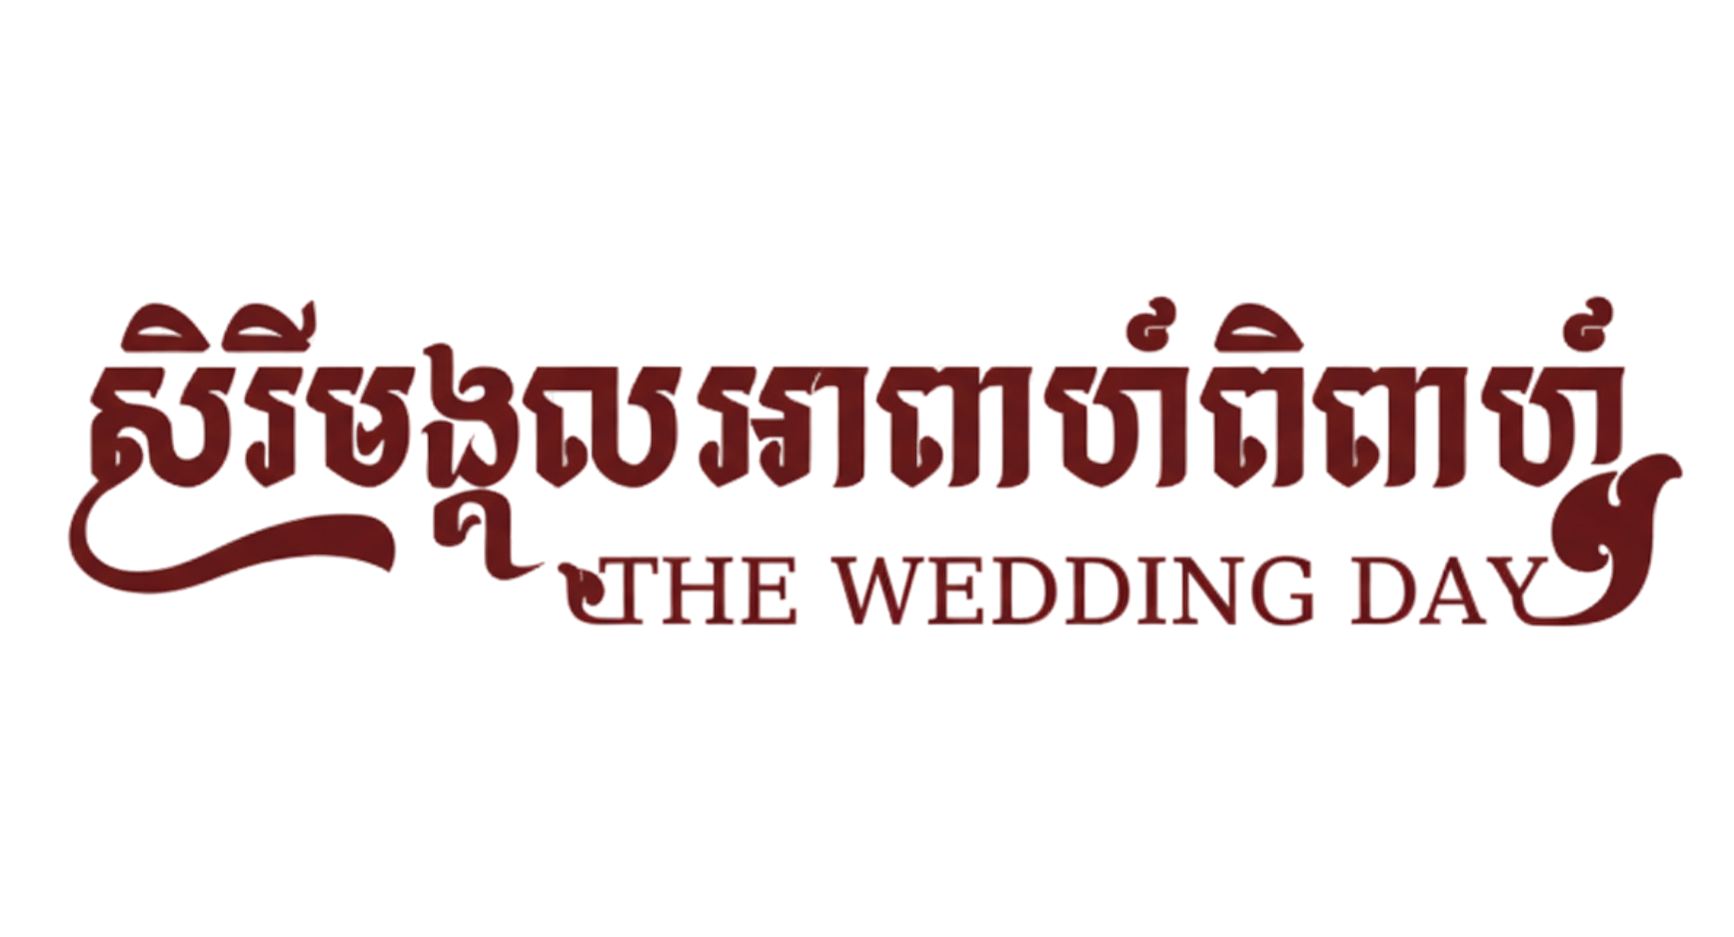
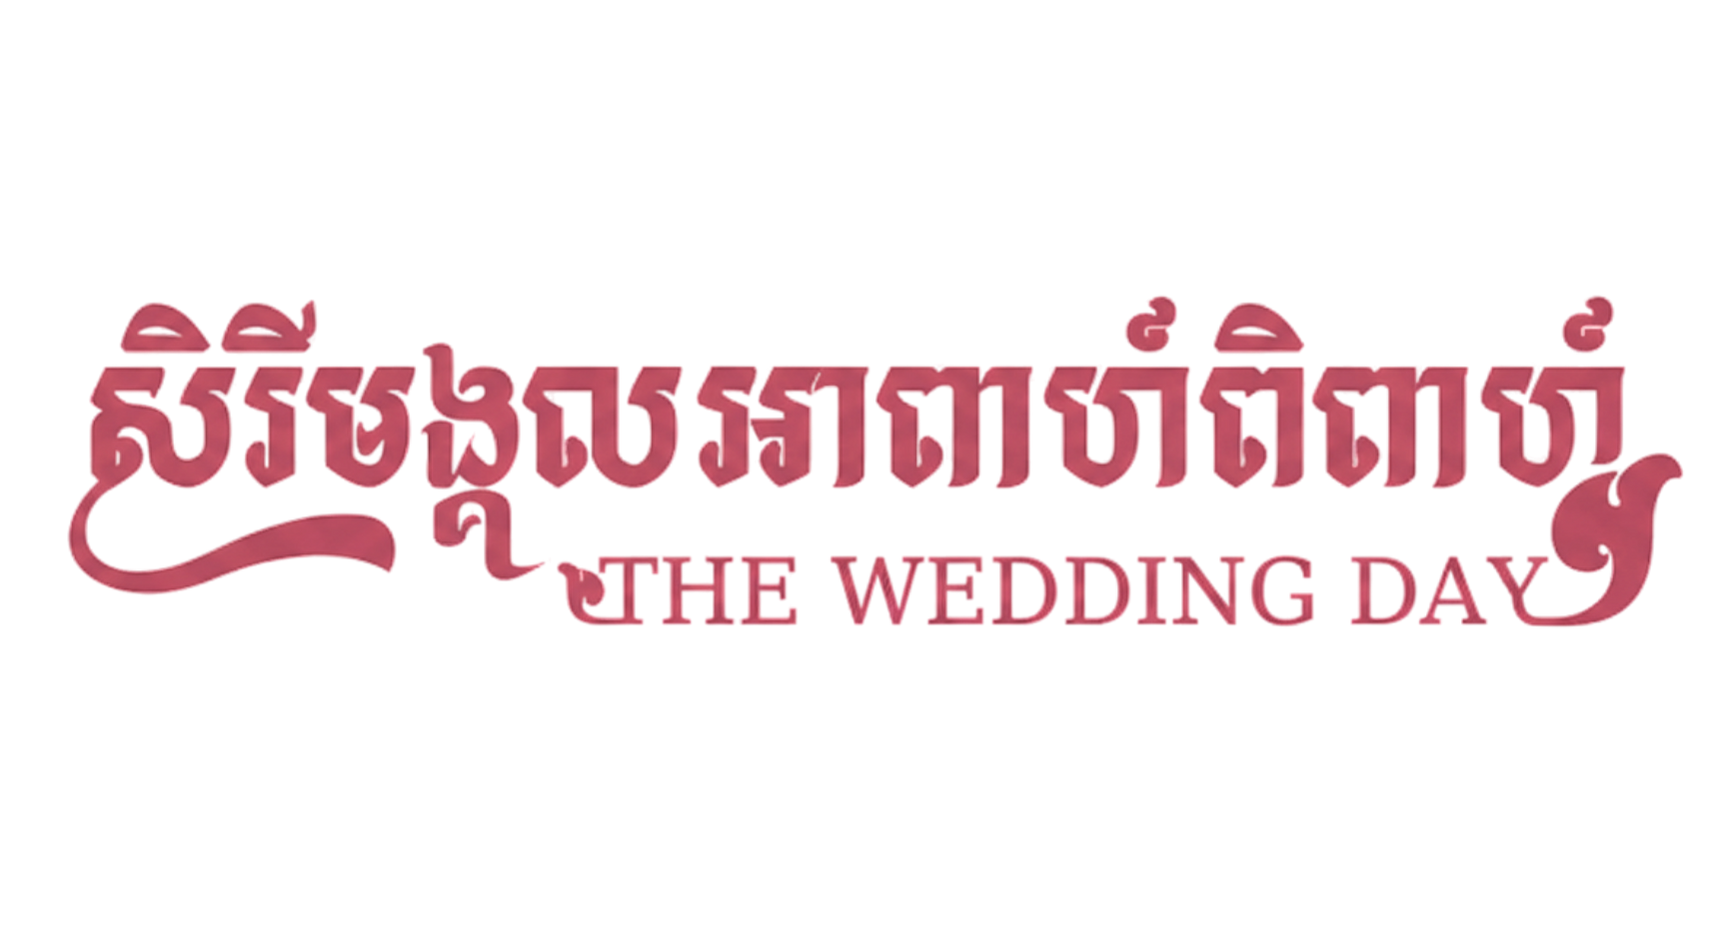
Auto update: 2025-10-09 19:11:04

Changed region(s): [[0.0311, 0.3095, 0.9654, 0.6809]]

diff --git a/src/components/base/CoverSection.jsx b/src/components/base/CoverSection.jsx
@@ -92,7 +92,7 @@ export default function CoverSection({
                 "mt-[calc(var(--ry)*0.5)]",
                 "moul-regular text-center tracking-[0.01em] leading-[1.2]",
                 "text-lg sm:text-3xl lg:text-2xl xl:text-2xl",
-                "text-[var(--primary)]",
+                "text-[var(--accent)]",
                 "animate-[fade-up_700ms_ease-out_both] [animation-delay:360ms] motion-reduce:animate-none",
                 "max-[340px]:text-xl"
               )}

diff --git a/src/index.css b/src/index.css
@@ -6,7 +6,7 @@
   /* existing */  
   --primary:   #590d22; /* deep wine */
   --secondary: #8f3a55; /* muted roseberry */
-  --accent:    #f6c7cc; /* soft petal pink */
+  --accent:    #a4133c; /* soft petal pink */
   --background:#fdf6f7; /* very light blush background */
   --text:      #3a0e1a; /* gentle maroon text */
 
